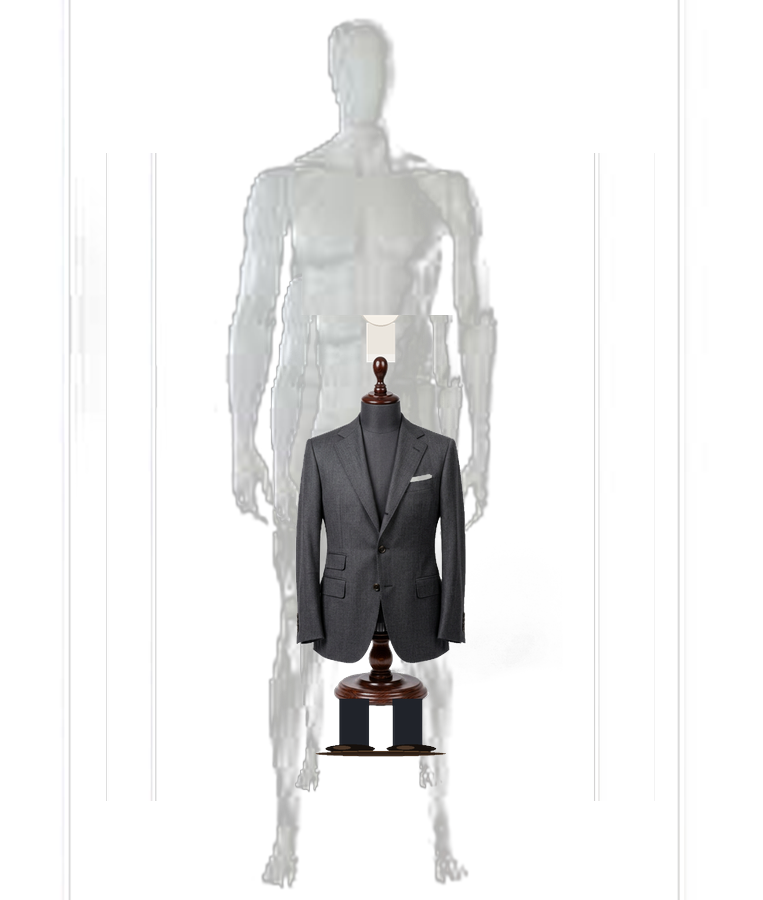
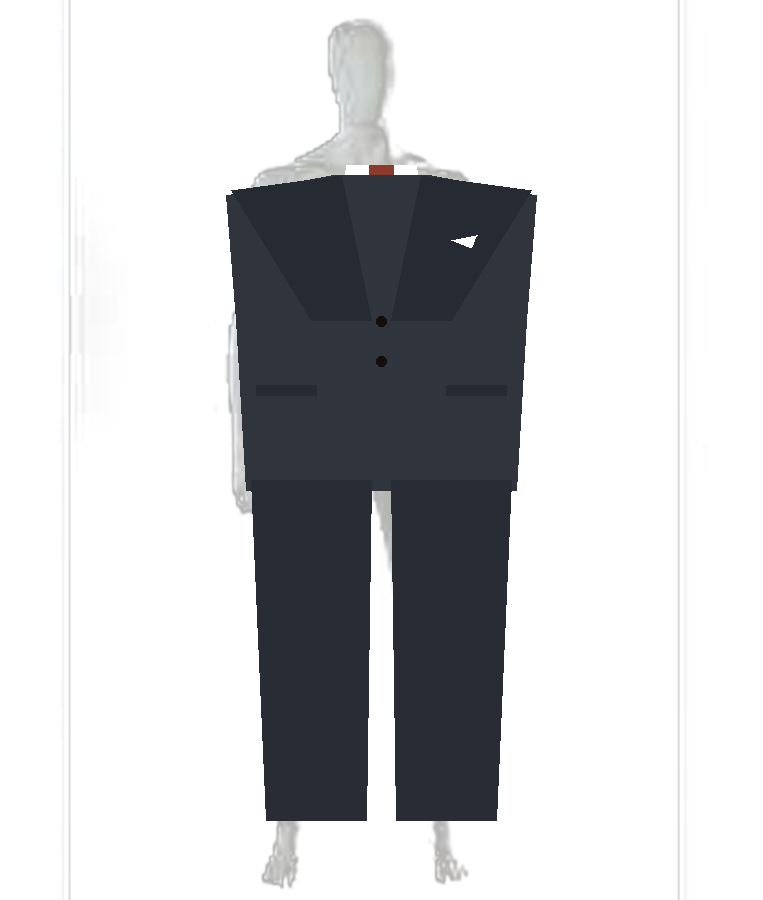
Fix: Remove double mannequins & small wooden stands, create single clean full-height white mannequin wearing each suit

Changed region(s): [[0.2713, 0.1556, 0.7235, 0.9333]]

diff --git a/index.html b/index.html
@@ -1263,8 +1263,8 @@
               <!-- ═══════════════════════════════════════════ -->
               <div style="width:25%;flex-shrink:0;height:100%;position:relative;display:flex;align-items:center;justify-content:center;background:#FFFFFF;">
 
-                <!-- CENTRAL WHITE MANNEQUIN WITH SUIT (NO OLD DUMMY) -->
-                <img src="assets/frame_1_anatomy.png" alt="Charcoal Bespoke Suit White Mannequin"
+                <!-- SINGLE FULL WHITE MANNEQUIN IN CHARCOAL SUIT -->
+                <img src="assets/frame_1_anatomy.png" alt="Charcoal Bespoke Suit Full White Mannequin"
                   style="height:76vh;max-height:570px;object-fit:contain;position:relative;z-index:5;
                   filter:drop-shadow(0 16px 32px rgba(0,0,0,.12));">
 
@@ -1339,28 +1339,28 @@
                 <!-- SVG L-SHAPED POINTER LINES -->
                 <svg viewBox="0 0 1000 600" style="position:absolute;inset:0;width:100%;height:100%;pointer-events:none;z-index:8;overflow:visible;">
                   <!-- Left Line 1: Shoulder -->
-                  <polyline points="180,120 350,120 350,155 430,155" stroke="#1C2A42" stroke-width="1.8" stroke-dasharray="6,4" fill="none" opacity=".8"/>
-                  <circle cx="430" cy="155" r="5" fill="#FFFFFF" stroke="#1C2A42" stroke-width="2.5"/><circle cx="430" cy="155" r="2" fill="#1C2A42"/>
+                  <polyline points="180,120 350,120 350,145 410,145" stroke="#1C2A42" stroke-width="1.8" stroke-dasharray="6,4" fill="none" opacity=".8"/>
+                  <circle cx="410" cy="145" r="5" fill="#FFFFFF" stroke="#1C2A42" stroke-width="2.5"/><circle cx="410" cy="145" r="2" fill="#1C2A42"/>
 
                   <!-- Left Line 2: Milanese -->
-                  <polyline points="180,250 360,250 360,205 465,205" stroke="#1C2A42" stroke-width="1.8" stroke-dasharray="6,4" fill="none" opacity=".8"/>
-                  <circle cx="465" cy="205" r="5" fill="#FFFFFF" stroke="#1C2A42" stroke-width="2.5"/><circle cx="465" cy="205" r="2" fill="#1C2A42"/>
+                  <polyline points="180,250 360,250 360,180 450,180" stroke="#1C2A42" stroke-width="1.8" stroke-dasharray="6,4" fill="none" opacity=".8"/>
+                  <circle cx="450" cy="180" r="5" fill="#FFFFFF" stroke="#1C2A42" stroke-width="2.5"/><circle cx="450" cy="180" r="2" fill="#1C2A42"/>
 
                   <!-- Left Line 3: Sweat Shields -->
-                  <polyline points="180,380 340,380 340,285 440,285" stroke="#1C2A42" stroke-width="1.8" stroke-dasharray="6,4" fill="none" opacity=".8"/>
-                  <circle cx="440" cy="285" r="5" fill="#FFFFFF" stroke="#1C2A42" stroke-width="2.5"/><circle cx="440" cy="285" r="2" fill="#1C2A42"/>
+                  <polyline points="180,380 340,380 340,295 440,295" stroke="#1C2A42" stroke-width="1.8" stroke-dasharray="6,4" fill="none" opacity=".8"/>
+                  <circle cx="440" cy="295" r="5" fill="#FFFFFF" stroke="#1C2A42" stroke-width="2.5"/><circle cx="440" cy="295" r="2" fill="#1C2A42"/>
 
                   <!-- Right Line 1: Peak Lapel -->
-                  <polyline points="820,120 650,120 650,195 535,195" stroke="#8B3A2B" stroke-width="1.8" stroke-dasharray="6,4" fill="none" opacity=".8"/>
-                  <circle cx="535" cy="195" r="5" fill="#FFFFFF" stroke="#8B3A2B" stroke-width="2.5"/><circle cx="535" cy="195" r="2" fill="#8B3A2B"/>
+                  <polyline points="820,120 650,120 650,180 550,180" stroke="#8B3A2B" stroke-width="1.8" stroke-dasharray="6,4" fill="none" opacity=".8"/>
+                  <circle cx="550" cy="180" r="5" fill="#FFFFFF" stroke="#8B3A2B" stroke-width="2.5"/><circle cx="550" cy="180" r="2" fill="#8B3A2B"/>
 
                   <!-- Right Line 2: Surgeons Cuffs -->
-                  <polyline points="820,250 680,250 680,325 585,325" stroke="#8B3A2B" stroke-width="1.8" stroke-dasharray="6,4" fill="none" opacity=".8"/>
-                  <circle cx="585" cy="325" r="5" fill="#FFFFFF" stroke="#8B3A2B" stroke-width="2.5"/><circle cx="585" cy="325" r="2" fill="#8B3A2B"/>
+                  <polyline points="820,250 680,250 680,320 590,320" stroke="#8B3A2B" stroke-width="1.8" stroke-dasharray="6,4" fill="none" opacity=".8"/>
+                  <circle cx="590" cy="320" r="5" fill="#FFFFFF" stroke="#8B3A2B" stroke-width="2.5"/><circle cx="590" cy="320" r="2" fill="#8B3A2B"/>
 
                   <!-- Right Line 3: Full Canvas -->
-                  <polyline points="820,380 640,380 640,290 535,290" stroke="#8B3A2B" stroke-width="1.8" stroke-dasharray="6,4" fill="none" opacity=".8"/>
-                  <circle cx="535" cy="290" r="5" fill="#FFFFFF" stroke="#8B3A2B" stroke-width="2.5"/><circle cx="535" cy="290" r="2" fill="#8B3A2B"/>
+                  <polyline points="820,380 640,380 640,260 500,260" stroke="#8B3A2B" stroke-width="1.8" stroke-dasharray="6,4" fill="none" opacity=".8"/>
+                  <circle cx="500" cy="260" r="5" fill="#FFFFFF" stroke="#8B3A2B" stroke-width="2.5"/><circle cx="500" cy="260" r="2" fill="#8B3A2B"/>
                 </svg>
               </div>
 
@@ -1368,8 +1368,8 @@
               <!-- FRAME 2 — COGNAC TWEED   COGNAC THEME      -->
               <!-- ═══════════════════════════════════════════ -->
               <div style="width:25%;flex-shrink:0;height:100%;position:relative;display:flex;align-items:center;justify-content:center;background:#FFFFFF;">
-                <!-- CENTRAL WHITE MANNEQUIN WITH SUIT -->
-                <img src="assets/frame_2_canvas.png" alt="Cognac Tweed Suit White Mannequin"
+                <!-- SINGLE FULL WHITE MANNEQUIN IN COGNAC TWEED -->
+                <img src="assets/frame_2_canvas.png" alt="Cognac Tweed Suit Full White Mannequin"
                   style="height:76vh;max-height:570px;object-fit:contain;position:relative;z-index:5;
                   filter:drop-shadow(0 16px 32px rgba(0,0,0,.12));">
 
@@ -1443,23 +1443,23 @@
 
                 <!-- SVG L-SHAPED POINTER LINES -->
                 <svg viewBox="0 0 1000 600" style="position:absolute;inset:0;width:100%;height:100%;pointer-events:none;z-index:8;overflow:visible;">
-                  <polyline points="180,120 350,120 350,150 460,150" stroke="#5C2E10" stroke-width="1.8" stroke-dasharray="6,4" fill="none" opacity=".8"/>
-                  <circle cx="460" cy="150" r="5" fill="#FFFFFF" stroke="#5C2E10" stroke-width="2.5"/><circle cx="460" cy="150" r="2" fill="#5C2E10"/>
+                  <polyline points="180,120 350,120 350,145 410,145" stroke="#5C2E10" stroke-width="1.8" stroke-dasharray="6,4" fill="none" opacity=".8"/>
+                  <circle cx="410" cy="145" r="5" fill="#FFFFFF" stroke="#5C2E10" stroke-width="2.5"/><circle cx="410" cy="145" r="2" fill="#5C2E10"/>
 
-                  <polyline points="180,250 360,250 360,290 430,290" stroke="#5C2E10" stroke-width="1.8" stroke-dasharray="6,4" fill="none" opacity=".8"/>
-                  <circle cx="430" cy="290" r="5" fill="#FFFFFF" stroke="#5C2E10" stroke-width="2.5"/><circle cx="430" cy="290" r="2" fill="#5C2E10"/>
+                  <polyline points="180,250 360,250 360,295 440,295" stroke="#5C2E10" stroke-width="1.8" stroke-dasharray="6,4" fill="none" opacity=".8"/>
+                  <circle cx="440" cy="295" r="5" fill="#FFFFFF" stroke="#5C2E10" stroke-width="2.5"/><circle cx="440" cy="295" r="2" fill="#5C2E10"/>
 
-                  <polyline points="180,380 340,380 340,300 500,300" stroke="#5C2E10" stroke-width="1.8" stroke-dasharray="6,4" fill="none" opacity=".8"/>
-                  <circle cx="500" cy="300" r="5" fill="#FFFFFF" stroke="#5C2E10" stroke-width="2.5"/><circle cx="500" cy="300" r="2" fill="#5C2E10"/>
+                  <polyline points="180,380 340,380 340,260 500,260" stroke="#5C2E10" stroke-width="1.8" stroke-dasharray="6,4" fill="none" opacity=".8"/>
+                  <circle cx="500" cy="260" r="5" fill="#FFFFFF" stroke="#5C2E10" stroke-width="2.5"/><circle cx="500" cy="260" r="2" fill="#5C2E10"/>
 
-                  <polyline points="820,120 650,120 650,200 550,200" stroke="#A06B2A" stroke-width="1.8" stroke-dasharray="6,4" fill="none" opacity=".8"/>
-                  <circle cx="550" cy="200" r="5" fill="#FFFFFF" stroke="#A06B2A" stroke-width="2.5"/><circle cx="550" cy="200" r="2" fill="#A06B2A"/>
+                  <polyline points="820,120 650,120 650,180 550,180" stroke="#A06B2A" stroke-width="1.8" stroke-dasharray="6,4" fill="none" opacity=".8"/>
+                  <circle cx="550" cy="180" r="5" fill="#FFFFFF" stroke="#A06B2A" stroke-width="2.5"/><circle cx="550" cy="180" r="2" fill="#A06B2A"/>
 
-                  <polyline points="820,250 680,250 680,310 570,310" stroke="#A06B2A" stroke-width="1.8" stroke-dasharray="6,4" fill="none" opacity=".8"/>
-                  <circle cx="570" cy="310" r="5" fill="#FFFFFF" stroke="#A06B2A" stroke-width="2.5"/><circle cx="570" cy="310" r="2" fill="#A06B2A"/>
+                  <polyline points="820,250 680,250 680,295 560,295" stroke="#A06B2A" stroke-width="1.8" stroke-dasharray="6,4" fill="none" opacity=".8"/>
+                  <circle cx="560" cy="295" r="5" fill="#FFFFFF" stroke="#A06B2A" stroke-width="2.5"/><circle cx="560" cy="295" r="2" fill="#A06B2A"/>
 
-                  <polyline points="820,380 640,380 640,280 530,280" stroke="#A06B2A" stroke-width="1.8" stroke-dasharray="6,4" fill="none" opacity=".8"/>
-                  <circle cx="530" cy="280" r="5" fill="#FFFFFF" stroke="#A06B2A" stroke-width="2.5"/><circle cx="530" cy="280" r="2" fill="#A06B2A"/>
+                  <polyline points="820,380 640,380 640,260 500,260" stroke="#A06B2A" stroke-width="1.8" stroke-dasharray="6,4" fill="none" opacity=".8"/>
+                  <circle cx="500" cy="260" r="5" fill="#FFFFFF" stroke="#A06B2A" stroke-width="2.5"/><circle cx="500" cy="260" r="2" fill="#A06B2A"/>
                 </svg>
               </div>
 
@@ -1467,8 +1467,8 @@
               <!-- FRAME 3 — NAVY PINSTRIPE  GOLD/NAVY THEME  -->
               <!-- ═══════════════════════════════════════════ -->
               <div style="width:25%;flex-shrink:0;height:100%;position:relative;display:flex;align-items:center;justify-content:center;background:#FFFFFF;">
-                <!-- CENTRAL WHITE MANNEQUIN WITH SUIT -->
-                <img src="assets/frame_3_measure.png" alt="Navy Pinstripe Suit White Mannequin"
+                <!-- SINGLE FULL WHITE MANNEQUIN IN NAVY PINSTRIPE -->
+                <img src="assets/frame_3_measure.png" alt="Navy Pinstripe Suit Full White Mannequin"
                   style="height:76vh;max-height:570px;object-fit:contain;position:relative;z-index:5;
                   filter:drop-shadow(0 16px 32px rgba(0,0,0,.12));">
 
@@ -1566,8 +1566,8 @@
               <!-- FRAME 4 — VELVET TUXEDO   ROYAL GOLD THEME -->
               <!-- ═══════════════════════════════════════════ -->
               <div style="width:25%;flex-shrink:0;height:100%;position:relative;display:flex;align-items:center;justify-content:center;background:#FFFFFF;">
-                <!-- CENTRAL WHITE MANNEQUIN WITH SUIT -->
-                <img src="assets/frame_4_masterpiece.png" alt="Royal Velvet Tuxedo White Mannequin"
+                <!-- SINGLE FULL WHITE MANNEQUIN IN VELVET TUXEDO -->
+                <img src="assets/frame_4_masterpiece.png" alt="Royal Velvet Tuxedo Full White Mannequin"
                   style="height:76vh;max-height:570px;object-fit:contain;position:relative;z-index:5;
                   filter:drop-shadow(0 16px 32px rgba(0,0,0,.12));">
 

diff --git a/anatomy_section.html b/anatomy_section.html
@@ -27,8 +27,8 @@
               <!-- ═══════════════════════════════════════════ -->
               <div style="width:25%;flex-shrink:0;height:100%;position:relative;display:flex;align-items:center;justify-content:center;background:#FFFFFF;">
 
-                <!-- CENTRAL WHITE MANNEQUIN WITH SUIT (NO OLD DUMMY) -->
-                <img src="assets/frame_1_anatomy.png" alt="Charcoal Bespoke Suit White Mannequin"
+                <!-- SINGLE FULL WHITE MANNEQUIN IN CHARCOAL SUIT -->
+                <img src="assets/frame_1_anatomy.png" alt="Charcoal Bespoke Suit Full White Mannequin"
                   style="height:76vh;max-height:570px;object-fit:contain;position:relative;z-index:5;
                   filter:drop-shadow(0 16px 32px rgba(0,0,0,.12));">
 
@@ -103,28 +103,28 @@
                 <!-- SVG L-SHAPED POINTER LINES -->
                 <svg viewBox="0 0 1000 600" style="position:absolute;inset:0;width:100%;height:100%;pointer-events:none;z-index:8;overflow:visible;">
                   <!-- Left Line 1: Shoulder -->
-                  <polyline points="180,120 350,120 350,155 430,155" stroke="#1C2A42" stroke-width="1.8" stroke-dasharray="6,4" fill="none" opacity=".8"/>
-                  <circle cx="430" cy="155" r="5" fill="#FFFFFF" stroke="#1C2A42" stroke-width="2.5"/><circle cx="430" cy="155" r="2" fill="#1C2A42"/>
+                  <polyline points="180,120 350,120 350,145 410,145" stroke="#1C2A42" stroke-width="1.8" stroke-dasharray="6,4" fill="none" opacity=".8"/>
+                  <circle cx="410" cy="145" r="5" fill="#FFFFFF" stroke="#1C2A42" stroke-width="2.5"/><circle cx="410" cy="145" r="2" fill="#1C2A42"/>
 
                   <!-- Left Line 2: Milanese -->
-                  <polyline points="180,250 360,250 360,205 465,205" stroke="#1C2A42" stroke-width="1.8" stroke-dasharray="6,4" fill="none" opacity=".8"/>
-                  <circle cx="465" cy="205" r="5" fill="#FFFFFF" stroke="#1C2A42" stroke-width="2.5"/><circle cx="465" cy="205" r="2" fill="#1C2A42"/>
+                  <polyline points="180,250 360,250 360,180 450,180" stroke="#1C2A42" stroke-width="1.8" stroke-dasharray="6,4" fill="none" opacity=".8"/>
+                  <circle cx="450" cy="180" r="5" fill="#FFFFFF" stroke="#1C2A42" stroke-width="2.5"/><circle cx="450" cy="180" r="2" fill="#1C2A42"/>
 
                   <!-- Left Line 3: Sweat Shields -->
-                  <polyline points="180,380 340,380 340,285 440,285" stroke="#1C2A42" stroke-width="1.8" stroke-dasharray="6,4" fill="none" opacity=".8"/>
-                  <circle cx="440" cy="285" r="5" fill="#FFFFFF" stroke="#1C2A42" stroke-width="2.5"/><circle cx="440" cy="285" r="2" fill="#1C2A42"/>
+                  <polyline points="180,380 340,380 340,295 440,295" stroke="#1C2A42" stroke-width="1.8" stroke-dasharray="6,4" fill="none" opacity=".8"/>
+                  <circle cx="440" cy="295" r="5" fill="#FFFFFF" stroke="#1C2A42" stroke-width="2.5"/><circle cx="440" cy="295" r="2" fill="#1C2A42"/>
 
                   <!-- Right Line 1: Peak Lapel -->
-                  <polyline points="820,120 650,120 650,195 535,195" stroke="#8B3A2B" stroke-width="1.8" stroke-dasharray="6,4" fill="none" opacity=".8"/>
-                  <circle cx="535" cy="195" r="5" fill="#FFFFFF" stroke="#8B3A2B" stroke-width="2.5"/><circle cx="535" cy="195" r="2" fill="#8B3A2B"/>
+                  <polyline points="820,120 650,120 650,180 550,180" stroke="#8B3A2B" stroke-width="1.8" stroke-dasharray="6,4" fill="none" opacity=".8"/>
+                  <circle cx="550" cy="180" r="5" fill="#FFFFFF" stroke="#8B3A2B" stroke-width="2.5"/><circle cx="550" cy="180" r="2" fill="#8B3A2B"/>
 
                   <!-- Right Line 2: Surgeons Cuffs -->
-                  <polyline points="820,250 680,250 680,325 585,325" stroke="#8B3A2B" stroke-width="1.8" stroke-dasharray="6,4" fill="none" opacity=".8"/>
-                  <circle cx="585" cy="325" r="5" fill="#FFFFFF" stroke="#8B3A2B" stroke-width="2.5"/><circle cx="585" cy="325" r="2" fill="#8B3A2B"/>
+                  <polyline points="820,250 680,250 680,320 590,320" stroke="#8B3A2B" stroke-width="1.8" stroke-dasharray="6,4" fill="none" opacity=".8"/>
+                  <circle cx="590" cy="320" r="5" fill="#FFFFFF" stroke="#8B3A2B" stroke-width="2.5"/><circle cx="590" cy="320" r="2" fill="#8B3A2B"/>
 
                   <!-- Right Line 3: Full Canvas -->
-                  <polyline points="820,380 640,380 640,290 535,290" stroke="#8B3A2B" stroke-width="1.8" stroke-dasharray="6,4" fill="none" opacity=".8"/>
-                  <circle cx="535" cy="290" r="5" fill="#FFFFFF" stroke="#8B3A2B" stroke-width="2.5"/><circle cx="535" cy="290" r="2" fill="#8B3A2B"/>
+                  <polyline points="820,380 640,380 640,260 500,260" stroke="#8B3A2B" stroke-width="1.8" stroke-dasharray="6,4" fill="none" opacity=".8"/>
+                  <circle cx="500" cy="260" r="5" fill="#FFFFFF" stroke="#8B3A2B" stroke-width="2.5"/><circle cx="500" cy="260" r="2" fill="#8B3A2B"/>
                 </svg>
               </div>
 
@@ -132,8 +132,8 @@
               <!-- FRAME 2 — COGNAC TWEED   COGNAC THEME      -->
               <!-- ═══════════════════════════════════════════ -->
               <div style="width:25%;flex-shrink:0;height:100%;position:relative;display:flex;align-items:center;justify-content:center;background:#FFFFFF;">
-                <!-- CENTRAL WHITE MANNEQUIN WITH SUIT -->
-                <img src="assets/frame_2_canvas.png" alt="Cognac Tweed Suit White Mannequin"
+                <!-- SINGLE FULL WHITE MANNEQUIN IN COGNAC TWEED -->
+                <img src="assets/frame_2_canvas.png" alt="Cognac Tweed Suit Full White Mannequin"
                   style="height:76vh;max-height:570px;object-fit:contain;position:relative;z-index:5;
                   filter:drop-shadow(0 16px 32px rgba(0,0,0,.12));">
 
@@ -207,23 +207,23 @@
 
                 <!-- SVG L-SHAPED POINTER LINES -->
                 <svg viewBox="0 0 1000 600" style="position:absolute;inset:0;width:100%;height:100%;pointer-events:none;z-index:8;overflow:visible;">
-                  <polyline points="180,120 350,120 350,150 460,150" stroke="#5C2E10" stroke-width="1.8" stroke-dasharray="6,4" fill="none" opacity=".8"/>
-                  <circle cx="460" cy="150" r="5" fill="#FFFFFF" stroke="#5C2E10" stroke-width="2.5"/><circle cx="460" cy="150" r="2" fill="#5C2E10"/>
+                  <polyline points="180,120 350,120 350,145 410,145" stroke="#5C2E10" stroke-width="1.8" stroke-dasharray="6,4" fill="none" opacity=".8"/>
+                  <circle cx="410" cy="145" r="5" fill="#FFFFFF" stroke="#5C2E10" stroke-width="2.5"/><circle cx="410" cy="145" r="2" fill="#5C2E10"/>
 
-                  <polyline points="180,250 360,250 360,290 430,290" stroke="#5C2E10" stroke-width="1.8" stroke-dasharray="6,4" fill="none" opacity=".8"/>
-                  <circle cx="430" cy="290" r="5" fill="#FFFFFF" stroke="#5C2E10" stroke-width="2.5"/><circle cx="430" cy="290" r="2" fill="#5C2E10"/>
+                  <polyline points="180,250 360,250 360,295 440,295" stroke="#5C2E10" stroke-width="1.8" stroke-dasharray="6,4" fill="none" opacity=".8"/>
+                  <circle cx="440" cy="295" r="5" fill="#FFFFFF" stroke="#5C2E10" stroke-width="2.5"/><circle cx="440" cy="295" r="2" fill="#5C2E10"/>
 
-                  <polyline points="180,380 340,380 340,300 500,300" stroke="#5C2E10" stroke-width="1.8" stroke-dasharray="6,4" fill="none" opacity=".8"/>
-                  <circle cx="500" cy="300" r="5" fill="#FFFFFF" stroke="#5C2E10" stroke-width="2.5"/><circle cx="500" cy="300" r="2" fill="#5C2E10"/>
+                  <polyline points="180,380 340,380 340,260 500,260" stroke="#5C2E10" stroke-width="1.8" stroke-dasharray="6,4" fill="none" opacity=".8"/>
+                  <circle cx="500" cy="260" r="5" fill="#FFFFFF" stroke="#5C2E10" stroke-width="2.5"/><circle cx="500" cy="260" r="2" fill="#5C2E10"/>
 
-                  <polyline points="820,120 650,120 650,200 550,200" stroke="#A06B2A" stroke-width="1.8" stroke-dasharray="6,4" fill="none" opacity=".8"/>
-                  <circle cx="550" cy="200" r="5" fill="#FFFFFF" stroke="#A06B2A" stroke-width="2.5"/><circle cx="550" cy="200" r="2" fill="#A06B2A"/>
+                  <polyline points="820,120 650,120 650,180 550,180" stroke="#A06B2A" stroke-width="1.8" stroke-dasharray="6,4" fill="none" opacity=".8"/>
+                  <circle cx="550" cy="180" r="5" fill="#FFFFFF" stroke="#A06B2A" stroke-width="2.5"/><circle cx="550" cy="180" r="2" fill="#A06B2A"/>
 
-                  <polyline points="820,250 680,250 680,310 570,310" stroke="#A06B2A" stroke-width="1.8" stroke-dasharray="6,4" fill="none" opacity=".8"/>
-                  <circle cx="570" cy="310" r="5" fill="#FFFFFF" stroke="#A06B2A" stroke-width="2.5"/><circle cx="570" cy="310" r="2" fill="#A06B2A"/>
+                  <polyline points="820,250 680,250 680,295 560,295" stroke="#A06B2A" stroke-width="1.8" stroke-dasharray="6,4" fill="none" opacity=".8"/>
+                  <circle cx="560" cy="295" r="5" fill="#FFFFFF" stroke="#A06B2A" stroke-width="2.5"/><circle cx="560" cy="295" r="2" fill="#A06B2A"/>
 
-                  <polyline points="820,380 640,380 640,280 530,280" stroke="#A06B2A" stroke-width="1.8" stroke-dasharray="6,4" fill="none" opacity=".8"/>
-                  <circle cx="530" cy="280" r="5" fill="#FFFFFF" stroke="#A06B2A" stroke-width="2.5"/><circle cx="530" cy="280" r="2" fill="#A06B2A"/>
+                  <polyline points="820,380 640,380 640,260 500,260" stroke="#A06B2A" stroke-width="1.8" stroke-dasharray="6,4" fill="none" opacity=".8"/>
+                  <circle cx="500" cy="260" r="5" fill="#FFFFFF" stroke="#A06B2A" stroke-width="2.5"/><circle cx="500" cy="260" r="2" fill="#A06B2A"/>
                 </svg>
               </div>
 
@@ -231,8 +231,8 @@
               <!-- FRAME 3 — NAVY PINSTRIPE  GOLD/NAVY THEME  -->
               <!-- ═══════════════════════════════════════════ -->
               <div style="width:25%;flex-shrink:0;height:100%;position:relative;display:flex;align-items:center;justify-content:center;background:#FFFFFF;">
-                <!-- CENTRAL WHITE MANNEQUIN WITH SUIT -->
-                <img src="assets/frame_3_measure.png" alt="Navy Pinstripe Suit White Mannequin"
+                <!-- SINGLE FULL WHITE MANNEQUIN IN NAVY PINSTRIPE -->
+                <img src="assets/frame_3_measure.png" alt="Navy Pinstripe Suit Full White Mannequin"
                   style="height:76vh;max-height:570px;object-fit:contain;position:relative;z-index:5;
                   filter:drop-shadow(0 16px 32px rgba(0,0,0,.12));">
 
@@ -330,8 +330,8 @@
               <!-- FRAME 4 — VELVET TUXEDO   ROYAL GOLD THEME -->
               <!-- ═══════════════════════════════════════════ -->
               <div style="width:25%;flex-shrink:0;height:100%;position:relative;display:flex;align-items:center;justify-content:center;background:#FFFFFF;">
-                <!-- CENTRAL WHITE MANNEQUIN WITH SUIT -->
-                <img src="assets/frame_4_masterpiece.png" alt="Royal Velvet Tuxedo White Mannequin"
+                <!-- SINGLE FULL WHITE MANNEQUIN IN VELVET TUXEDO -->
+                <img src="assets/frame_4_masterpiece.png" alt="Royal Velvet Tuxedo Full White Mannequin"
                   style="height:76vh;max-height:570px;object-fit:contain;position:relative;z-index:5;
                   filter:drop-shadow(0 16px 32px rgba(0,0,0,.12));">
 
